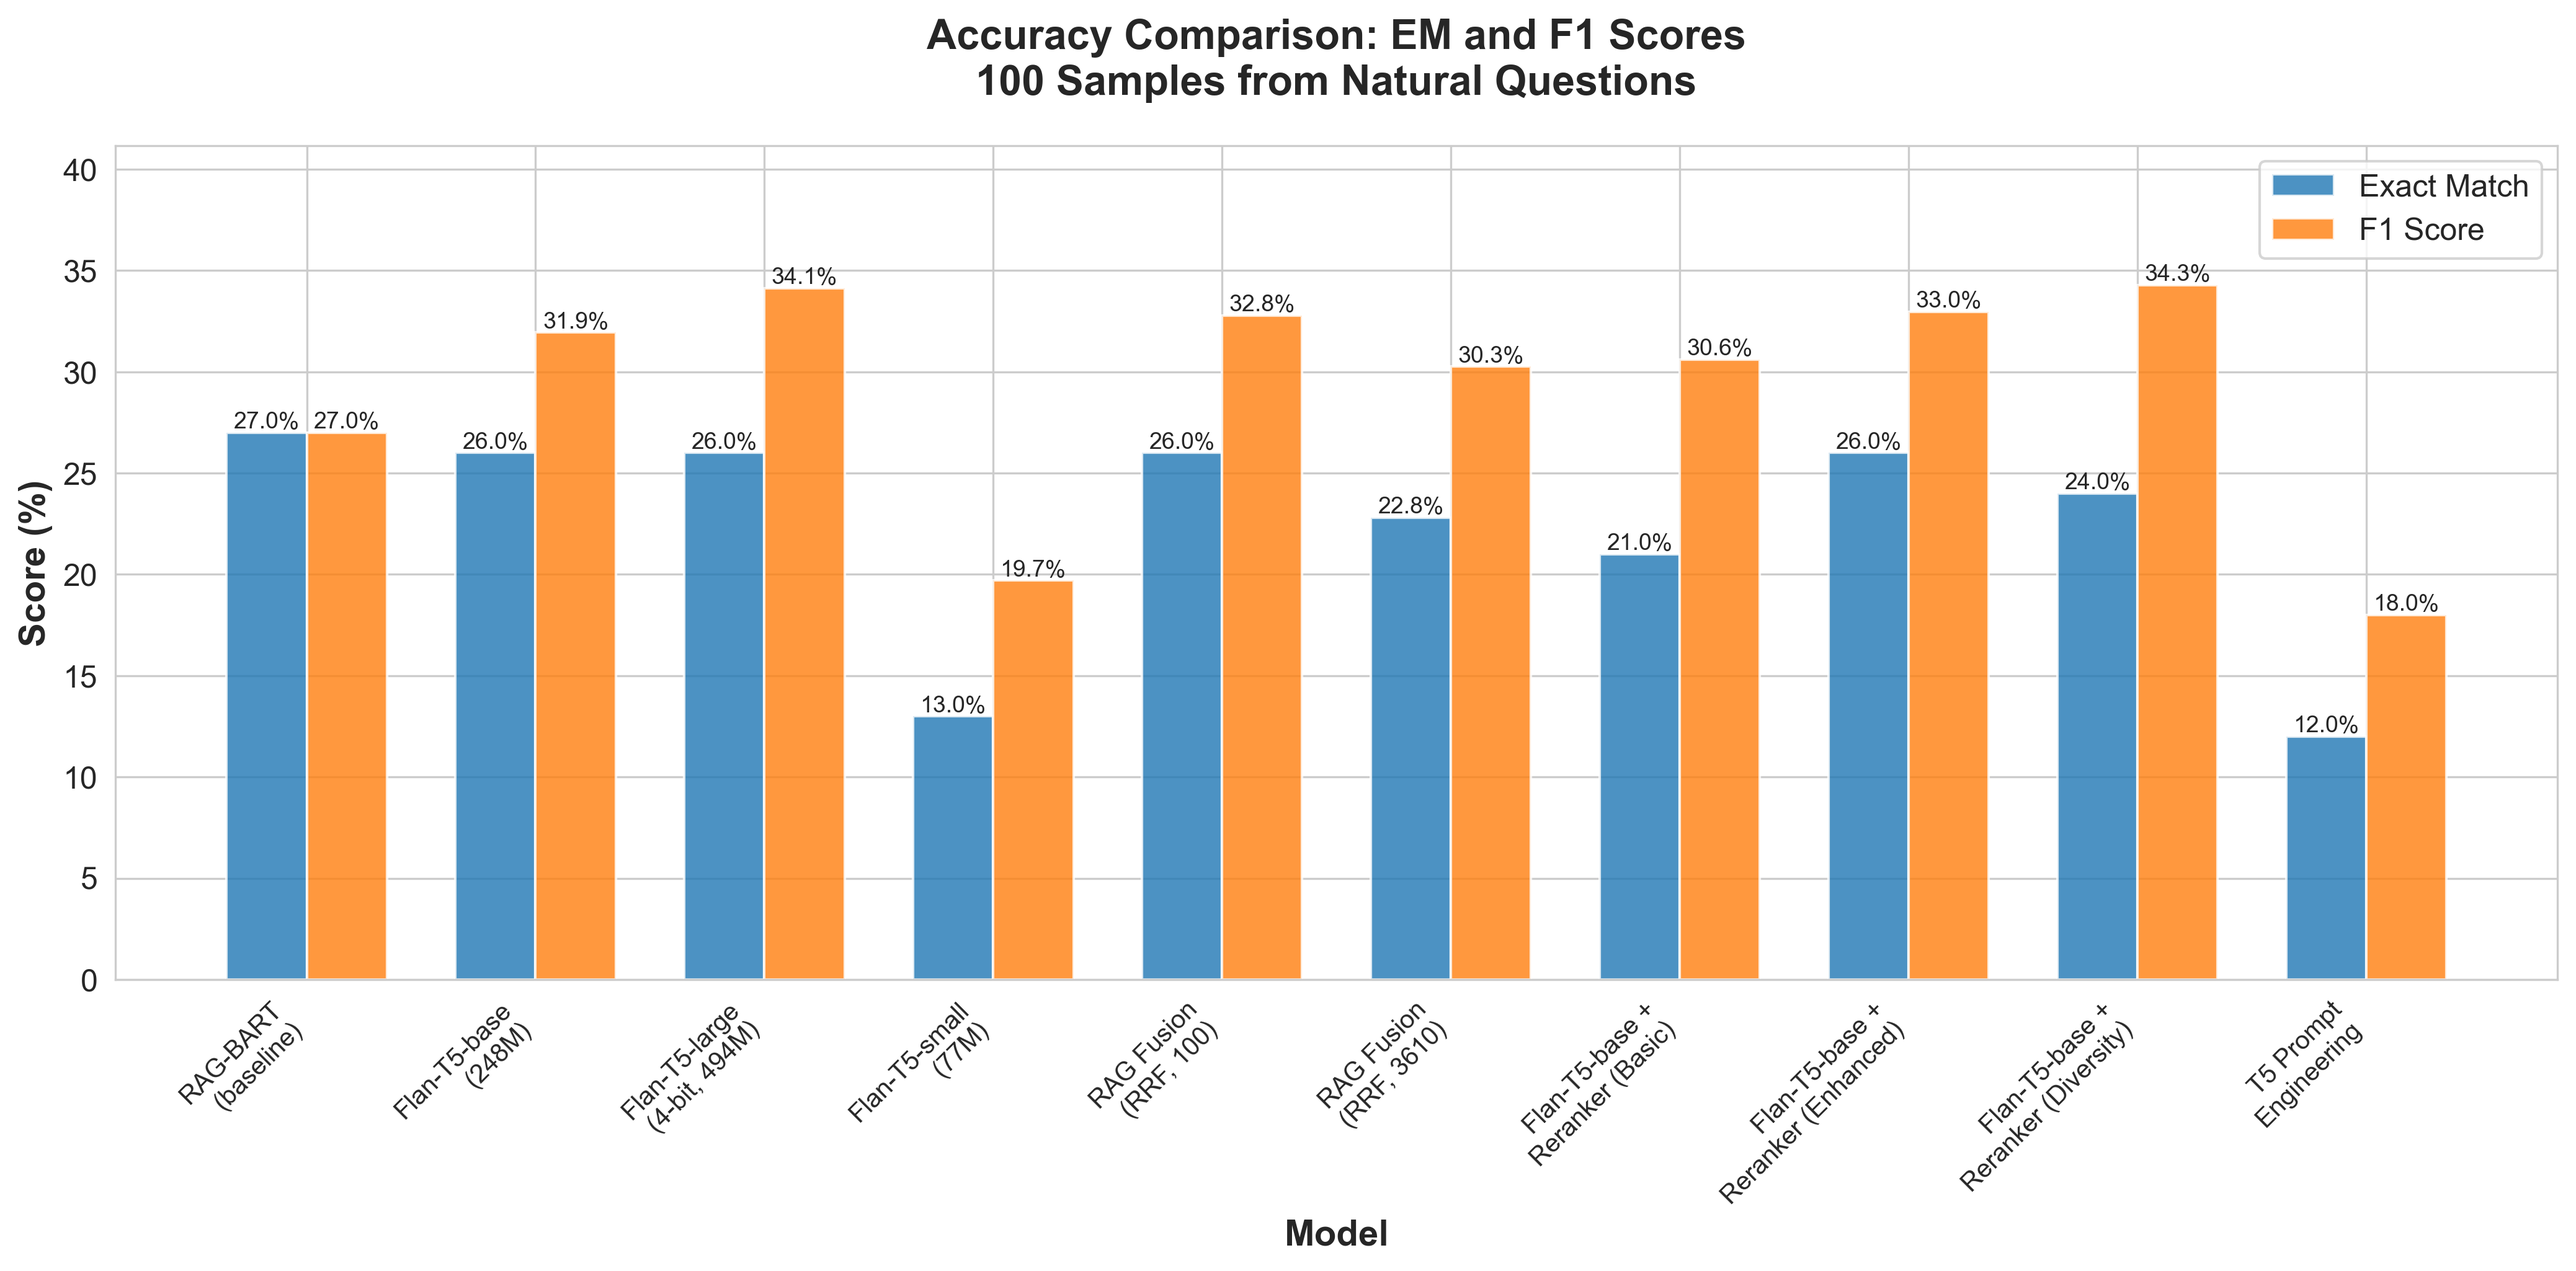
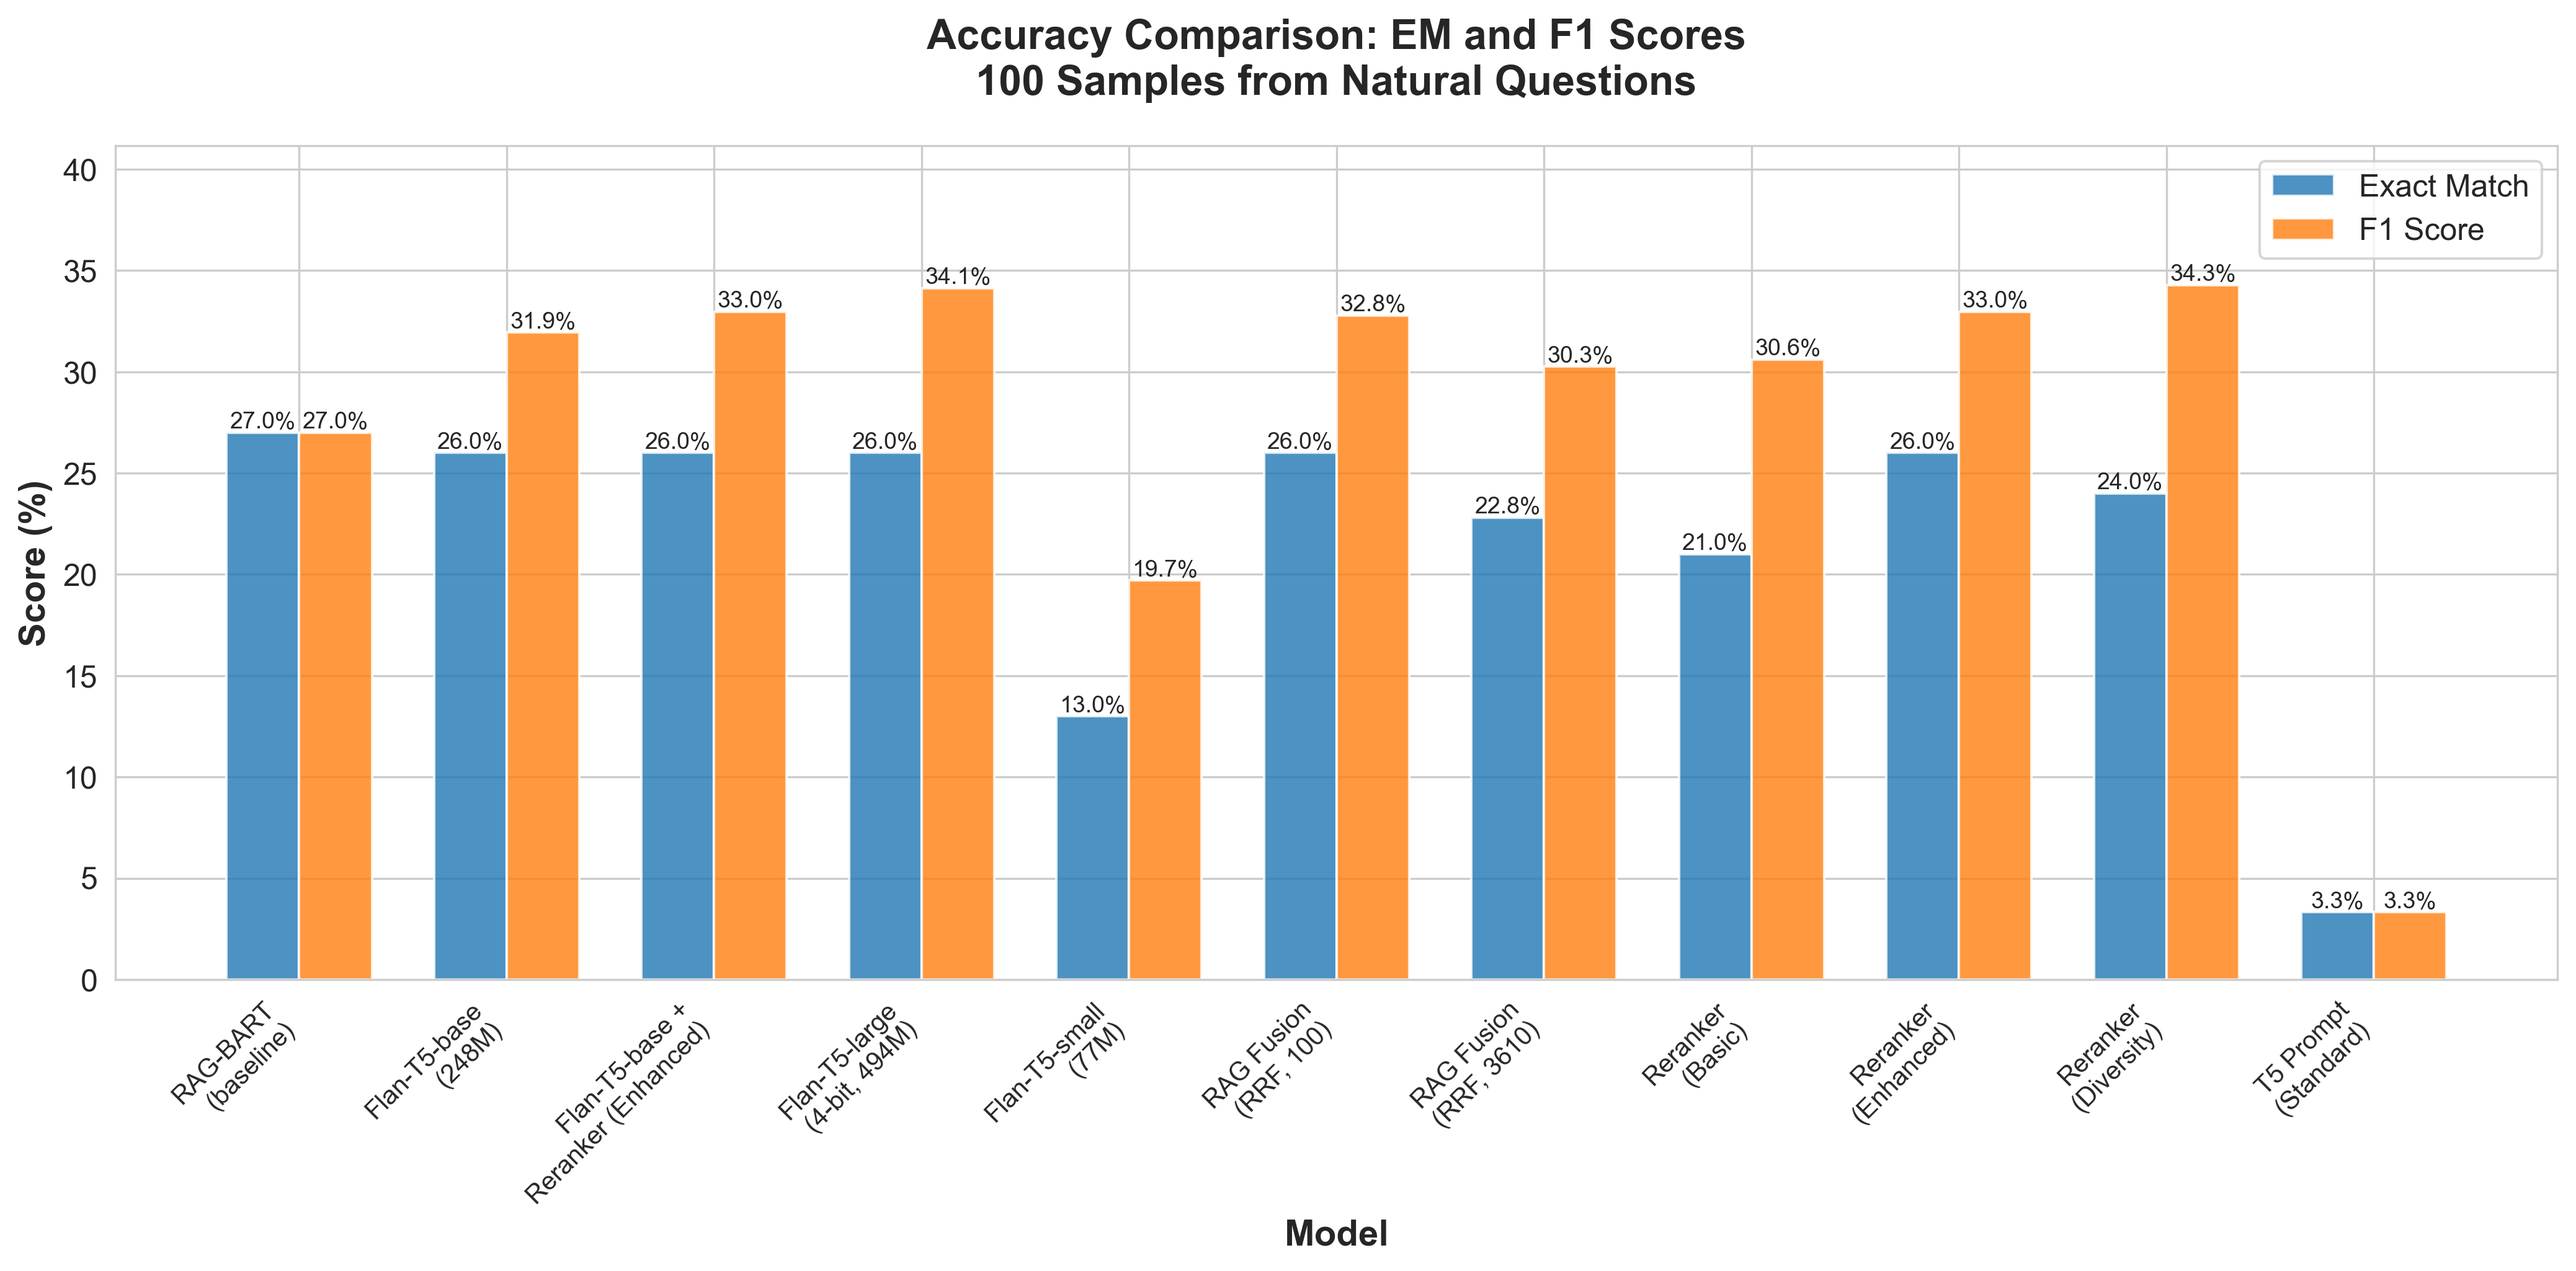
tried to fi prompt engineering and update visuals

diff --git a/experiments/eval_rag_t5_promt.py b/experiments/eval_rag_t5_promt.py
@@ -5,10 +5,11 @@ Inherits setup from eval_rag_flan_t5.py but overrides the evaluation loop.
 
 import argparse
 import json
-import time
 import sys
-import torch
+import time
 from pathlib import Path
+
+import torch
 from tqdm import tqdm
 
 # 1. Setup Path to import from sibling files
@@ -18,10 +19,8 @@ sys.path.insert(0, str(Path(__file__).parent.parent))
 # 2. MODULAR IMPORT: Reuse your existing stable code
 # This avoids code duplication for model loading and data processing
 try:
-    from experiments.eval_rag_flan_t5 import (
-        load_flan_t5_with_retriever, 
-        load_natural_questions
-    )
+    from experiments.eval_rag_flan_t5 import (load_flan_t5_with_retriever,
+                                              load_natural_questions)
     from src.evaluation.metrics import compute_metrics
 except ImportError:
     print("Error: Could not import from eval_rag_flan_t5. Make sure you are running from project root.")
@@ -31,20 +30,18 @@ except ImportError:
 # --- NEW EXTENSION LOGIC ---
 
 PROMPT_TEMPLATES = {
-    "standard": "question: {question} context: {context}",
+    "standard": "{context}\n\nQuestion: {question}\n\nAnswer:",
     
     "reasoning": (
-        "Answer the question based on the context below. Explain your reasoning step by step.\n\n"
-        "Context: {context}\n\n"
+        "{context}\n\n"
         "Question: {question}\n\n"
-        "Reasoning & Answer:"
+        "Answer the question above using only the context provided. Provide your answer:"
     ),
     
     "instruction": (
-        "You are a helpful assistant. Use the provided context to answer the user question accurately and conciselyand faithfully.\n\n"
-        "Context: {context}\n\n"
-        "User: {question}\n"
-        "Assistant:"
+        "{context}\n\n"
+        "Q: {question}\n"
+        "A:"
     )
 }
 
@@ -72,57 +69,76 @@ def evaluate_with_prompts(model, tokenizer, retriever, question_encoder, questio
     references = []
     
     print(f"\nRunning Extension: '{prompt_type.upper()}' Prompting")
+    print(f"Evaluating on {len(dataset)} examples...")
     print(f"Retrieving {n_docs} docs per question...")
 
     start_time = time.time()
 
-    for i in tqdm(range(0, len(dataset), batch_size), desc=f"Eval ({prompt_type})"):
-        batch = dataset[i:i+batch_size]
-        
-        # Unpack batch (handles both dict and list format)
-        if isinstance(batch, dict):
-            questions = [batch.get('question', batch.get('query', ''))]
-            answers = [batch.get('answer', batch.get('answers', []))]
-        else:
-            questions = [ex.get('question', ex.get('query', '')) for ex in batch]
-            answers = [ex.get('answer', ex.get('answers', [])) for ex in batch]
+    for i in tqdm(range(0, len(dataset), batch_size), desc="Evaluating", total=int(len(dataset)/batch_size)+1):
+        try:
+            batch = dataset[i:i+batch_size]
+            
+            # Unpack batch (handles both dict and list format)
+            if isinstance(batch, dict):
+                questions = [batch.get('question', batch.get('query', ''))]
+                answers = [batch.get('answer', batch.get('answers', []))]
+            else:
+                questions = [ex.get('question', ex.get('query', '')) for ex in batch]
+                answers = [ex.get('answer', ex.get('answers', [])) for ex in batch]
 
-        # --- RETRIEVAL STEP (Standard) ---
-        batch_prompts = []
-        for question in questions:
-            # 1. Encode Question
-            q_enc = question_encoder_tokenizer(question, return_tensors="pt", padding=True, truncation=True)
+            # --- RETRIEVAL STEP (Standard) ---
+            batch_prompts = []
+            for question in questions:
+                # 1. Encode Question
+                q_enc = question_encoder_tokenizer(question, return_tensors="pt", padding=True, truncation=True)
+                with torch.no_grad():
+                    q_embed = question_encoder(q_enc.input_ids.to(device), attention_mask=q_enc.attention_mask.to(device)).pooler_output
+
+                # 2. Retrieve Docs
+                retrieved = retriever(q_enc.input_ids.to(device), q_embed.cpu().numpy(), n_docs=n_docs, return_tensors="pt")
+                doc_ids = retrieved["doc_ids"][0]
+                docs_dicts = retriever.index.get_doc_dicts(doc_ids)
+                docs = [{"text": doc["text"]} for doc in docs_dicts]
+
+                # 3. FORMAT PROMPT (The Extension Part)
+                prompt = format_custom_prompt(question, docs, prompt_type=prompt_type)
+                batch_prompts.append(prompt)
+
+            # --- GENERATION STEP (Standard) ---
+            inputs = tokenizer(batch_prompts, return_tensors="pt", padding=True, truncation=True, max_length=1024).to(device)
+            
             with torch.no_grad():
-                q_embed = question_encoder(q_enc.input_ids.to(device), attention_mask=q_enc.attention_mask.to(device)).pooler_output
+                generated_ids = model.generate(
+                    **inputs,
+                    max_length=max_length,
+                    do_sample=False # Greedy decoding for reproducibility
+                )
 
-            # 2. Retrieve Docs
-            retrieved = retriever(q_enc.input_ids.to(device), q_embed.cpu().numpy(), n_docs=n_docs, return_tensors="pt")
-            doc_ids = retrieved["doc_ids"][0]
-            docs_dicts = retriever.index.get_doc_dicts(doc_ids)
-            docs = [{"text": doc["text"]} for doc in docs_dicts]
-
-            # 3. FORMAT PROMPT (The Extension Part)
-            prompt = format_custom_prompt(question, docs, prompt_type=prompt_type)
-            batch_prompts.append(prompt)
-
-        # --- GENERATION STEP (Standard) ---
-        inputs = tokenizer(batch_prompts, return_tensors="pt", padding=True, truncation=True, max_length=1024).to(device)
-        
-        with torch.no_grad():
-            generated_ids = model.generate(
-                **inputs,
-                max_length=max_length,
-                do_sample=False # Greedy decoding for reproducibility
-            )
-
-        batch_preds = tokenizer.batch_decode(generated_ids, skip_special_tokens=True)
-        predictions.extend(batch_preds)
-        
-        # Standardize answers for metric computation
-        for ans in answers:
-            if isinstance(ans, str): references.append([ans])
-            elif isinstance(ans, list): references.append(ans if ans else [''])
-            else: references.append([''])
+            batch_preds = tokenizer.batch_decode(generated_ids, skip_special_tokens=True)
+            
+            # Extract only the answer part (after "Answer:" if present)
+            cleaned_preds = []
+            for pred in batch_preds:
+                if "Answer:" in pred:
+                    # Take only the text after the last "Answer:" prompt
+                    answer = pred.split("Answer:")[-1].strip()
+                else:
+                    answer = pred.strip()
+                cleaned_preds.append(answer)
+            predictions.extend(cleaned_preds)
+            
+            # Standardize answers for metric computation
+            for ans in answers:
+                if isinstance(ans, str): references.append([ans])
+                elif isinstance(ans, list): references.append(ans if ans else [''])
+                else: references.append([''])
+        except Exception as e:
+            print(f"\nError processing batch at index {i}: {e}")
+            continue
+        except Exception as e:
+            print(f"\nError processing batch at index {i}: {e}")
+            print(f"Continuing with {len(predictions)} samples collected so far...")
+            continue
 
     # Compute Metrics
     elapsed = time.time() - start_time
@@ -155,11 +171,11 @@ def main():
         n_docs=args.n_docs,
         use_4bit=args.use_4bit
     )
-    print("      ✓ Model and retriever loaded")
+    print("      [OK] Model and retriever loaded")
     
     print("[2/2] Loading Natural Questions dataset...")
     dataset = load_natural_questions(split="validation", max_samples=args.max_samples)
-    print(f"      ✓ Dataset loaded ({len(dataset)} samples)")
+    print(f"      [OK] Dataset loaded ({len(dataset)} samples)")
     print("="*50 + "\n")
 
     # 2. RUN: Execute the modified evaluation loop
@@ -183,7 +199,7 @@ def main():
     print(f"Exact Match: {metrics['exact_match']:.2f}%")
     print(f"F1 Score:    {metrics['f1']:.2f}%")
     print("="*50)
-    print("✓ Evaluation completed successfully\n")
+    print("[OK] Evaluation completed successfully\n")
 
     if args.output_file:
         Path(args.output_file).parent.mkdir(parents=True, exist_ok=True)

diff --git a/analysis/visualize_results.py b/analysis/visualize_results.py
@@ -38,11 +38,11 @@ def load_all_results():
                 for strategy in ['basic', 'enhanced', 'diversity']:
                     if strategy in data:
                         strategy_name = strategy.capitalize()
-                        results[f'Flan-T5-base +\nReranker ({strategy_name})'] = data[strategy]
+                        results[f'Reranker\n({strategy_name})'] = data[strategy]
             # Skip files that are already handled or are strategy files
             elif filename not in ['baseline_100samples', 'baseline_200samples', 'flan_t5_small_100',
                                   'flan_t5_base_100', 'flan_t5_large_4bit_100', 't5_prompt_100',
-                                  'rag_fusion_results', 'rag_fusion_100']:
+                                  'rag_fusion_results', 'rag_fusion_100', 'flan_t5_base_reranked_100']:
                 # Add any other JSON files with generic naming
                 model_name = filename.replace('_', ' ').replace('100', '').replace('200', '').strip()
                 model_name = model_name.title()
@@ -57,7 +57,9 @@ def load_all_results():
             elif filename == 'flan_t5_large_4bit_100':
                 results['Flan-T5-large\n(4-bit, 494M)'] = data
             elif filename == 't5_prompt_100':
-                results['T5 Prompt\nEngineering'] = data
+                results['T5 Prompt\n(Standard)'] = data
+            elif filename == 'flan_t5_base_reranked_100':
+                results['Flan-T5-base +\nReranker (Enhanced)'] = data
             elif filename == 'rag_fusion_results':
                 results['RAG Fusion\n(RRF, 3610)'] = data
             elif filename == 'rag_fusion_100':
@@ -138,17 +140,28 @@ def create_speed_vs_accuracy(results, output_dir):
     }
     sizes = [param_sizes.get(m, 100) for m in models]
 
-    fig, ax = plt.subplots(figsize=(12, 8))
+    fig, ax = plt.subplots(figsize=(14, 10))
 
-    scatter = ax.scatter(speeds, em_scores, s=[s*2 for s in sizes], alpha=0.6,
-                        c=range(len(models)), cmap='viridis', edgecolors='black', linewidth=2)
+    scatter = ax.scatter(speeds, em_scores, s=[s*2 for s in sizes], alpha=0.7,
+                        c=range(len(models)), cmap='tab20', edgecolors='black', linewidth=2)
 
-    # Add labels for each point
-    for i, model in enumerate(models):
-        ax.annotate(model, (speeds[i], em_scores[i]),
-                   xytext=(10, 10), textcoords='offset points',
-                   fontsize=11, fontweight='bold',
-                   bbox=dict(boxstyle='round,pad=0.5', facecolor='white', alpha=0.7))
+    # Add smart labels with adjustText to avoid overlap
+    try:
+        from adjustText import adjust_text
+        texts = []
+        for i, model in enumerate(models):
+            txt = ax.text(speeds[i], em_scores[i], model, fontsize=12, ha='center',
+                         bbox=dict(boxstyle='round,pad=0.4', facecolor='white', alpha=0.8, edgecolor='gray', linewidth=1.5))
+            texts.append(txt)
+        adjust_text(texts, arrowprops=dict(arrowstyle='->', color='gray', lw=0.8), fontsize=12)
+    except ImportError:
+        for i, model in enumerate(models):
+            offset_x = 0.1 if i % 2 == 0 else -0.1
+            offset_y = 10 if i % 3 < 2 else -10
+            ax.annotate(model, (speeds[i], em_scores[i]),
+                       xytext=(offset_x, offset_y), textcoords='offset points',
+                       fontsize=11, ha='center',
+                       bbox=dict(boxstyle='round,pad=0.4', facecolor='white', alpha=0.8, edgecolor='gray', linewidth=1.5))
 
     ax.set_xlabel('Speed (questions/second)', fontsize=14, fontweight='bold')
     ax.set_ylabel('Exact Match (%)', fontsize=14, fontweight='bold')
@@ -253,7 +266,6 @@ def create_f1_em_gap_analysis(results, output_dir):
     # Add legend
     from matplotlib.patches import Patch
     legend_elements = [
-        Patch(facecolor='red', alpha=0.7, label='No partial matches (all or nothing)'),
         Patch(facecolor='blue', alpha=0.7, label='Generates partial matches')
     ]
     ax.legend(handles=legend_elements, fontsize=11)

diff --git a/experiments/prompts.py b/experiments/prompts.py
@@ -1,6 +1,5 @@
 """
-Prompt templates for RAG experiments.
-Includes multiple prompt engineering strategies to improve answer generation.
+Prompt templates for RAG experiments
 """
 
 
